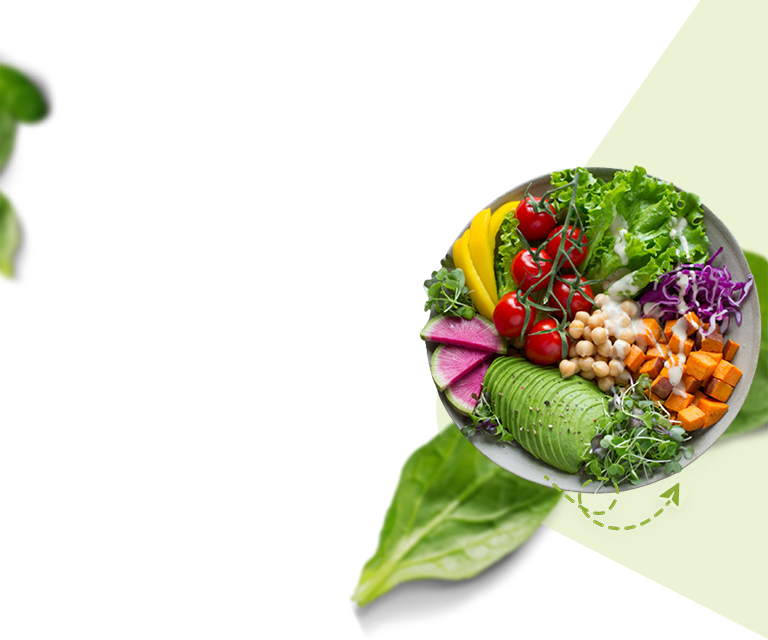
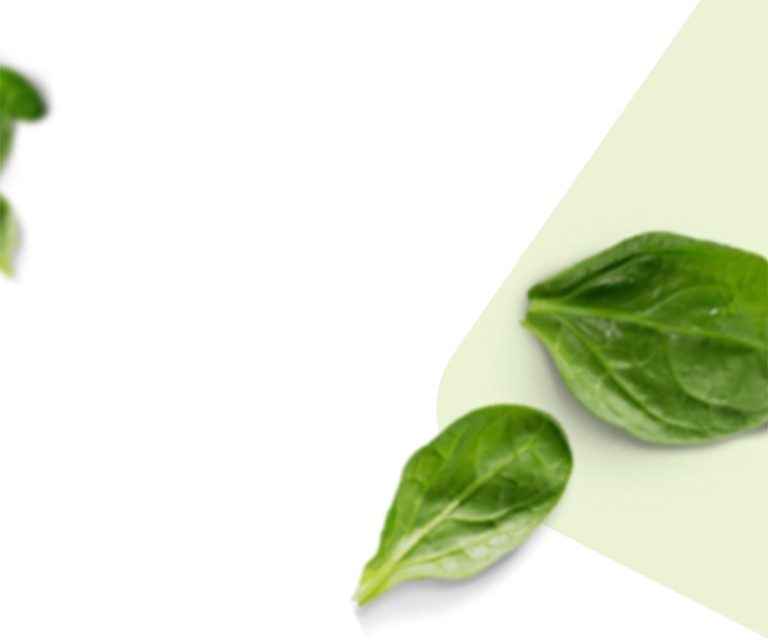
fix bg main

diff --git a/src/components/ChooseYourBreakfast/ChooseYourBreakfast.jsx b/src/components/ChooseYourBreakfast/ChooseYourBreakfast.jsx
@@ -1,31 +1,45 @@
 import { NavLink } from 'react-router-dom';
+import spoon from 'images/spoon.png';
+import arrow from 'images/arrow.png';
 export const ChooseYourBreakfast = () => {
   return (
-    <div className="hidden  w-[298px] h-28 bg-white rounded-lg p-2 leading-5 text-secondaryText mb-8 md:mb-0 md:flex justify-between flex-col dark:bg-accentDark">
-      <p className="font-main font-medium text-sm tracking-tight dark:text-whiteText">
-        <span className="text-accentMain ">Delicious and healthy </span>
-        way to enjoy a variety of fresh ingredients in one satisfying meal
-      </p>
-      <NavLink
-        to="/categories/breakfast"
-        className="text-[10px] tracking-[0.2px] flex justify-end items-center hover:text-accentMain dark:text-whiteText"
-      >
-        See recipes{' '}
-        <svg
-          className="w-4 h-3 ml-1 flex"
-          viewBox="0 0 15 12"
-          fill="none"
-          xmlns="http://www.w3.org/2000/svg"
+    <div className="relative w-full z-0">
+      <img
+        src={spoon}
+        alt=""
+        className="absolute z-0 bottom-[110px] left-0 right-0 mx-auto md:mr-0 md:bottom-[-10px] md:right-[-40px] xl:bottom-[-90px] xl:right-[70px] w-[320px] h-[300px] md:w-[378px] md:h-[350px] xl:w-[578px] xl:h-[539px]"
+      />
+      <img
+        src={arrow}
+        alt=""
+        className="absolute z-0 bottom-[80px] left-0 right-0 mx-auto md:mr-0 md:bottom-[-45px] md:right-[25px] xl:bottom-[-130px] xl:right-[50px] w-[180px] h-[100px] md:w-[180px] md:h-[100px] xl:w-[220px] xl:h-[170px]"
+      />
+      <div className="absolute bottom-[115px] left-0 right-0 mx-auto md:mr-0 md:bottom-[25px] md:right-0 xl:bottom-1 xl:right-0  w-[298px] md:w-[261px] md:h-[100px] h-28 bg-white rounded-lg p-2 leading-5 text-secondaryText mb-8 md:mb-0 md:flex justify-between flex-col dark:bg-accentDark">
+        <p className="font-main font-medium text-sm tracking-tight dark:text-whiteText">
+          <span className="text-accentMain ">Delicious and healthy </span>
+          way to enjoy a variety of fresh ingredients in one satisfying meal
+        </p>
+        <NavLink
+          to="/categories/breakfast"
+          className="text-[10px] tracking-[0.2px] flex justify-end items-center hover:text-accentMain dark:text-whiteText"
         >
-          <path
-            className="stroke-current"
-            d="M1.5 6H13.5M13.5 6L9 1.5M13.5 6L9 10.5"
-            strokeWidth="1.5"
-            strokeLinecap="round"
-            strokeLinejoin="round"
-          />
-        </svg>
-      </NavLink>
+          See recipes{' '}
+          <svg
+            className="w-4 h-3 ml-1 flex"
+            viewBox="0 0 15 12"
+            fill="none"
+            xmlns="http://www.w3.org/2000/svg"
+          >
+            <path
+              className="stroke-current"
+              d="M1.5 6H13.5M13.5 6L9 1.5M13.5 6L9 10.5"
+              strokeWidth="1.5"
+              strokeLinecap="round"
+              strokeLinejoin="round"
+            />
+          </svg>
+        </NavLink>
+      </div>
     </div>
   );
 };

diff --git a/src/pages/MainPage.jsx b/src/pages/MainPage.jsx
@@ -13,8 +13,8 @@ const MainPage = () => {
 
   return (
     <section>
-      <div className=" bg-main_m md:bg-main_t xl:bg-main_d bg-no-repeat bg-center bg-size_main h-48.5 md:h-[768px] pt-[68px]  xl:pt-52  md:flex items-center">
-        <div className="container  flex justify-between flex-row items-end xl:pb-64">
+      <div className=" bg-main_m md:bg-main_t xl:bg-main_d bg-no-repeat bg-center bg-size_main h-48.5 md:h-[640px] xl:h-[777px] pt-[68px]  xl:pt-52  md:flex items-center">
+        <div className="mx-auto max-w-[1440px] w-full px-[16px] md:px-[2.25rem] lg:px-[60px] xl:px-[100px] block md:flex justify-between flex-row items-end xl:pb-64">
           <div className="flex  flex-col mx-auto md:mx-0 xl:justify-start  mb-8 ">
             <h1 className="text-accentDark text-center md:text-left font-normal text-[60px] md:text-[72px] xl:text-[100px] font-main dark:text-whiteText">
               <span className="  leading-10  tracking-tighter text-accentMain">
@@ -22,7 +22,7 @@ const MainPage = () => {
               </span>
               Yummy
             </h1>
-            <p className="font-normal text-center text-sm xl:text-lg font-main leading-6 md:text-left mb-[390px] md:mb-[32px] xl:mb-12 w-[248px] md:w-[362px] xl:w-[460px] tracking-tight dark:text-whiteText">
+            <p className="font-normal text-center mx-auto text-sm xl:text-lg font-main leading-6 md:text-left mb-[390px] md:mb-[32px] xl:mb-12 w-[248px] md:w-[362px] xl:w-[460px] tracking-tight dark:text-whiteText">
               "What to cook?" is not only a recipe app, it is, in fact, your
               cookbook. You can add your own recipes to save them for the
               future.
